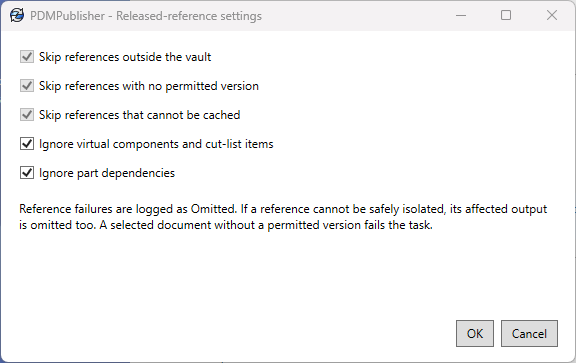
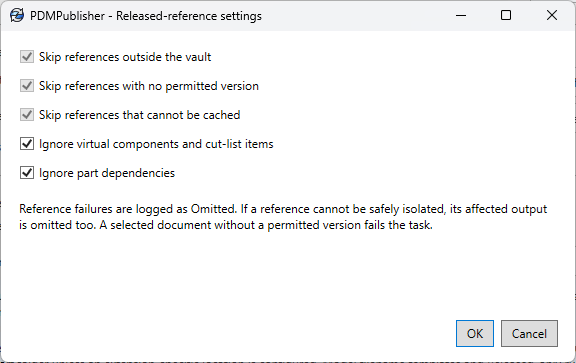
Add reference settings screenshot to permitted-state guide

diff --git a/src/pdmpublisher-options/get-latest-revision-only.md b/src/pdmpublisher-options/get-latest-revision-only.md
@@ -18,6 +18,10 @@ You can still type and add text when vault suggestions are unavailable.
 
 Choose **Reference settings…** to review how references are handled. References outside the vault, without a Released version, or that cannot be cached are always omitted. Virtual components, cut-list items, and all file dependencies of `.SLDPRT` files are ignored by default, regardless of extension. Assembly and drawing references still follow normal checks.
 
+![Released-reference settings showing the five reference-handling options](/images/pdmpublisher/screenshots/task-released-reference-dialog.png)
+
+All five options start checked. The three **Skip** options are always enabled; **OK** saves changes to the two **Ignore** options.
+
 Reference failures are logged with the filename and reason. Omissions flow **downward only** through descendants used exclusively by the omitted branch; parents are not automatically omitted. Shared components and independently selected files remain eligible.
 
 The parent continues if its temporary publishing copy can exclude the failed child and pass verification. Original files remain unchanged. References discovered later by SOLIDWORKS follow the same rules: external files are excluded, while newly found vault files must pass Released-version selection and caching.
